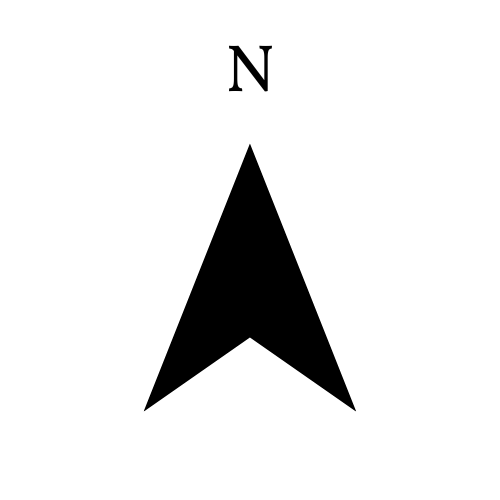
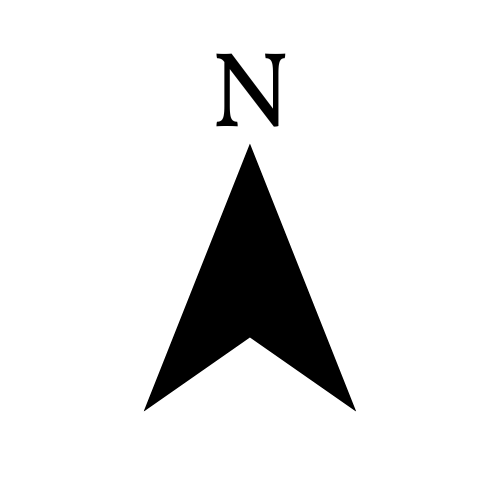
feat(map orientation): add north orientation control in map

Changed region(s): [[0.42, 0.09, 0.57, 0.27]]

diff --git a/frontend/src/components/builtMap/map/controls/OrientationControlComponent.tsx b/frontend/src/components/builtMap/map/controls/OrientationControlComponent.tsx
@@ -1,0 +1,41 @@
+// import des bibliothèques
+import { useEffect } from "react";
+import L from "leaflet";
+// import des services
+import { useMapStore } from "../../../../utils/stores/builtMap/mapStore";
+// import du type
+import type { Map as LeafletMap } from "leaflet";
+// import des images
+import northIcon from "../../../../assets/nord-icon.png";
+
+/**
+ * Composant qui affiche une image d'indication du nord sur la carte
+ * @param {Ojbect} props Les props du composant
+ */
+const OrientationControl = () => {
+	const map = useMapStore((state) => state.map);
+
+	useEffect(() => {
+		const control = L.control({ position: "topleft" });
+
+		// Contenu HTML du bouton
+		control.onAdd = () => {
+			const button = L.DomUtil.create("button", "custom-control-button");
+			button.innerHTML = `<img src=${northIcon} alt="Orientation" width="70"/>`; // Chemin vers l'image d'orientation
+			button.style.cursor = "pointer";
+
+			return button;
+		};
+
+		control.addTo(map); // Ajouter le contrôle à la carte
+
+		return () => {
+			// Nettoyage lors du démontage du composant
+			(map as LeafletMap).removeControl(control);
+		};
+	}, [map]);
+
+	return null;
+};
+
+export default OrientationControl;

diff --git a/frontend/src/components/builtMap/map/mapComponent/MapComponent.tsx b/frontend/src/components/builtMap/map/mapComponent/MapComponent.tsx
@@ -41,6 +41,7 @@ import style from "./mapComponent.module.scss";
 import "./mapComponent.css";
 import { useWindowSize } from "../../../../utils/hooks/useWindowSize";
 import MobileTutorialModalContent from "../../../common/modal/tutorial/MobileTutorialModalContent";
+import OrientationControl from "../controls/OrientationControlComponent";
 
 /**
  * Composant de la carte
@@ -285,6 +286,7 @@ const MapComponent = () => {
 								)}
 								<ZoomControl position="bottomleft" />
 								<ScaleControl position="bottomleft" />
+								<OrientationControl />
 								{/* <ResetControl mapBounds={bounds} /> */}
 							</>
 						)}
